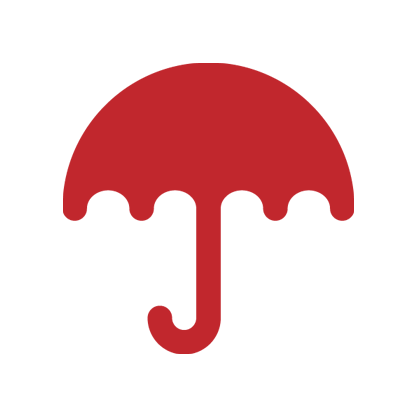
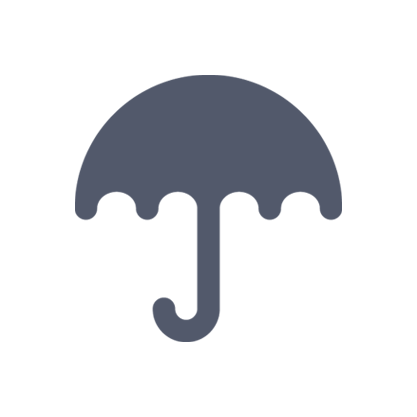
coming soon added

Changed region(s): [[0.1247, 0.1247, 0.8729, 0.8729]]

diff --git a/src/app/shared/coming-soon/coming-soon.component.css b/src/app/shared/coming-soon/coming-soon.component.css
@@ -1,0 +1,53 @@
+.collapser {
+    width: 100%;
+    height: 100vh;
+    z-index: 10;
+    position: relative;
+    display: flex;
+    /* background */
+    /* background: linear-gradient(113.32deg, #3f3d48 0%, #222127 100%); */
+  }
+
+  video {
+    object-fit: cover;
+    width: 100%;
+    height: 100%;
+    position: absolute;
+    top: 0;
+    left: 0;
+  }
+  
+  .carousel-content {
+    display: flex;
+    flex-direction: column;
+    justify-content: center;
+    align-items: center;
+    width: 100%;
+    height: 100%;
+    z-index: 2;
+  }
+
+  .img-content {
+      width: 400px;
+      margin-bottom: 20px;
+  }
+    
+  .carousel-sub {
+    font-family: "Playfair Display";
+    font-style: normal;
+    font-weight: bold;
+    font-size: 80px;
+    color: white;
+    margin: 0;
+  }
+  
+  /* Phone Screen */
+  @media only screen and (max-width: 450px) {
+    .img-content {
+        width: 200px;
+        margin-bottom: 10px;
+    }
+    .carousel-sub {
+      font-size: 30px;
+    }
+  }

diff --git a/src/app/shared/coming-soon/coming-soon.component.spec.ts b/src/app/shared/coming-soon/coming-soon.component.spec.ts
@@ -1,0 +1,25 @@
+import { ComponentFixture, TestBed } from '@angular/core/testing';
+
+import { ComingSoonComponent } from './coming-soon.component';
+
+describe('ComingSoonComponent', () => {
+  let component: ComingSoonComponent;
+  let fixture: ComponentFixture<ComingSoonComponent>;
+
+  beforeEach(async () => {
+    await TestBed.configureTestingModule({
+      declarations: [ ComingSoonComponent ]
+    })
+    .compileComponents();
+  });
+
+  beforeEach(() => {
+    fixture = TestBed.createComponent(ComingSoonComponent);
+    component = fixture.componentInstance;
+    fixture.detectChanges();
+  });
+
+  it('should create', () => {
+    expect(component).toBeTruthy();
+  });
+});

diff --git a/src/app/app.module.ts b/src/app/app.module.ts
@@ -15,6 +15,7 @@ import { HowitworksComponent } from './shared/howitworks/howitworks.component';
 import { GalleryComponent } from './shared/gallery/gallery.component';
 import { NgbModule } from '@ng-bootstrap/ng-bootstrap';
 import { NgImageSliderModule } from 'ng-image-slider';
+import { ComingSoonComponent } from './shared/coming-soon/coming-soon.component';
 
 @NgModule({
   declarations: [
@@ -27,7 +28,8 @@ import { NgImageSliderModule } from 'ng-image-slider';
     Section3Component,
     SliderComponent,
     HowitworksComponent,
-    GalleryComponent
+    GalleryComponent,
+    ComingSoonComponent
   ],
   imports: [
     BrowserModule,

diff --git a/src/app/shared/coming-soon/coming-soon.component.html b/src/app/shared/coming-soon/coming-soon.component.html
@@ -1,0 +1,13 @@
+<div>
+    <!-- <video autoplay loop muted oncanplay="this.muted=true" class="video-bg" src="../../../assets/background_video.mp4" type="video/mp4"></video> -->
+    <video loop muted autoplay oncanplay="this.play()" onloadedmetadata="this.muted = true" id="videoId">
+        <source src="../../../assets/background_video.mp4" type="video/mp4" />
+    </video>
+
+</div>
+<div class="collapser">
+    <div class="carousel-content">
+        <img src="../../../assets/logo-white.svg" alt="" class="img-content">
+        <h1 class="carousel-sub">Coming Soon!</h1>
+    </div>
+</div>

diff --git a/src/app/app.component.html b/src/app/app.component.html
@@ -1,8 +1,9 @@
 <!-- <app-header></app-header> -->
-<app-carousel></app-carousel>
+<app-coming-soon></app-coming-soon>
+<!-- <app-carousel></app-carousel>
 <app-section2></app-section2>
 <app-section3></app-section3>
 <app-slider></app-slider>
 <app-howitworks></app-howitworks>
 <app-gallery></app-gallery>
-<app-footer></app-footer>
+<app-footer></app-footer> -->

diff --git a/src/app/shared/coming-soon/coming-soon.component.ts b/src/app/shared/coming-soon/coming-soon.component.ts
@@ -1,0 +1,15 @@
+import { Component, OnInit } from '@angular/core';
+
+@Component({
+  selector: 'app-coming-soon',
+  templateUrl: './coming-soon.component.html',
+  styleUrls: ['./coming-soon.component.css']
+})
+export class ComingSoonComponent implements OnInit {
+
+  constructor() { }
+
+  ngOnInit(): void {
+  }
+
+}

diff --git a/src/app/shared/howitworks/howitworks.component.css b/src/app/shared/howitworks/howitworks.component.css
@@ -80,7 +80,7 @@
 .icon-container3 {
 	width: 100px;
 	height: 100px;
-	background: url('../../../assets/how/umbrella-2.png') no-repeat;
+	background: url('../../../assets/how/umbrella.png') no-repeat;
 	background-size: contain;
 }
 .card-container2:hover > .icon-container3  {
